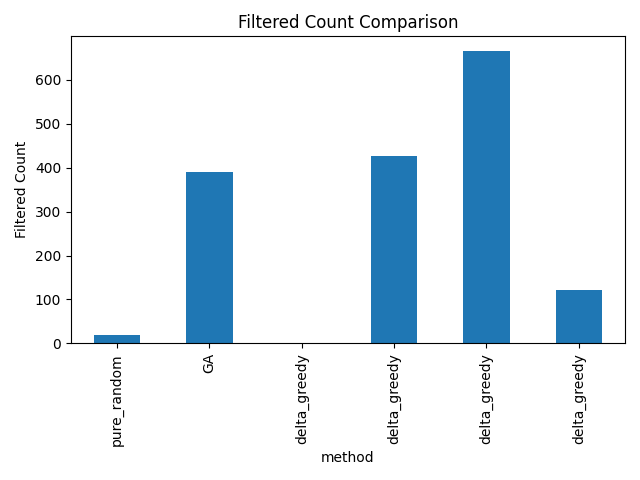
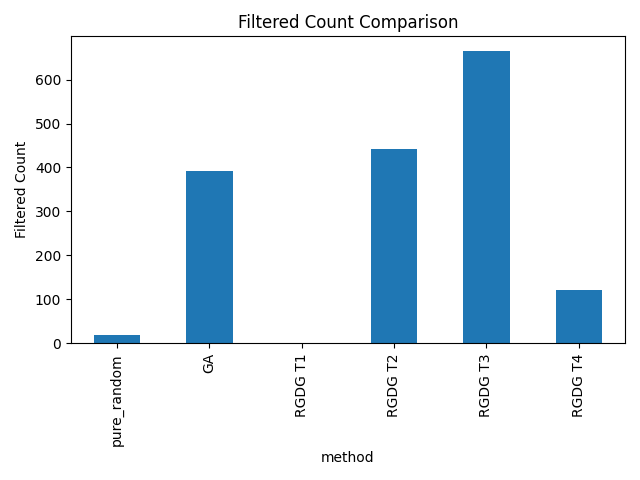
refector after merge

diff --git a/main.py b/main.py
@@ -119,23 +119,21 @@ def main():
     print("min:", np.min(np_pure_random_skill_fitness_list))
     print("Filtered count:", len(filtered_pure_random_skill_results))
     print("Unique archetypes in filtered results:", unique_archetypes)
-    
-    all_results.append({
-    "method": "pure_random",
-    "variance": pure_random_skill_variance,
-    "mean": np.mean(np_pure_random_skill_fitness_list),
-    "max": np.max(np_pure_random_skill_fitness_list),
-    "min": np.min(np_pure_random_skill_fitness_list),
-    "filtered_count": len(filtered_pure_random_skill_results),
-    })
+
+    all_results.append(
+        {
+            "method": "RDM",
+            "variance": pure_random_skill_variance,
+            "mean": np.mean(np_pure_random_skill_fitness_list),
+            "median": np.median(np_pure_random_skill_fitness_list),
+            "max": np.max(np_pure_random_skill_fitness_list),
+            "min": np.min(np_pure_random_skill_fitness_list),
+            "filtered_count": len(filtered_pure_random_skill_results),
+        }
+    )
 
     # fitness is negtive log (-fitness)
     log_pure_random_fitness = np.log10(-np_pure_random_skill_fitness_list + 1)
-
-    # plt.boxplot(log_pure_random_fitness, tick_labels=["Pure-random"])
-    # plt.title("Log-scaled Loss Pure Random")
-    # plt.ylabel("Log-scaled Loss")
-    # plt.show()
 
     plt.hist(log_pure_random_fitness, bins=50)
     plt.title("Log-scaled Loss Pure Random")
@@ -149,15 +147,6 @@ def main():
     )
     plt.legend()
     plt.show()
-    
-    # all_results.append({
-    # "method": "rule_based",
-    # "variance": best_rule_based_skill_variance,
-    # "mean": np.mean(np_best_rule_based_skill_fitness_list),
-    # "max": np.max(np_best_rule_based_skill_fitness_list),
-    # "min": np.min(np_best_rule_based_skill_fitness_list),
-    # "filtered_count": len(filtered_best_rule_based_skill_results),
-    # })
 
     # GA skill generation and evaluation
     ga_generated_skill_list_with_fitness = []
@@ -207,17 +196,13 @@ def main():
 
     print("GA variance:", ga_skill_variance)
     print("GA mean:", np.mean(ga_generated_skill_fitness_list))
+
     print("GA max:", np.max(ga_generated_skill_fitness_list))
     print("GA min:", np.min(ga_generated_skill_fitness_list))
     print("GA Filtered count:", len(filtered_ga_skill_results))
     print("GA Unique archetypes in filtered results:", unique_archetypes)
 
     log_ga_fitness = np.log10(-np_ga_fitness + 1)
-
-    # plt.boxplot(log_ga_fitness, tick_labels=["GA"])
-    # plt.title("Log-scaled Loss GA")
-    # plt.ylabel("Log-scaled Loss")
-    # plt.show()
 
     plt.hist(log_ga_fitness, bins=50)
     plt.title("Log-scaled Loss GA")
@@ -231,15 +216,18 @@ def main():
     )
     plt.legend()
     plt.show()
-    
-    all_results.append({
-    "method": "GA",
-    "variance": ga_skill_variance,
-    "mean": np.mean(ga_generated_skill_fitness_list),
-    "max": np.max(ga_generated_skill_fitness_list),
-    "min": np.min(ga_generated_skill_fitness_list),
-    "filtered_count": len(filtered_ga_skill_results),
-    })
+
+    all_results.append(
+        {
+            "method": "GA",
+            "variance": ga_skill_variance,
+            "mean": np.mean(ga_generated_skill_fitness_list),
+            "median": np.median(ga_generated_skill_fitness_list),
+            "max": np.max(ga_generated_skill_fitness_list),
+            "min": np.min(ga_generated_skill_fitness_list),
+            "filtered_count": len(filtered_ga_skill_results),
+        }
+    )
 
     # proxy strong rule based skill generation and evaluation
     c = 0.75
@@ -304,37 +292,25 @@ def main():
         print(
             f"Rule-Guided Delta Greedy (c={c}) tier={fold} Unique archetypes in filtered results: {unique_archetypes}"
         )
-    
+
         unique_archetypes = len(
             set(s.archetype_id for _, s in filtered_delta_greedy_skills)
         )
-        print(f"Delta-Greedy (c={c}) variance: {delta_greedy_skill_variance}")
-        print(f"Delta-Greedy (c={c}) mean: {np.mean(delta_greedy_skill_fitness_list)}")
-        print(f"Delta-Greedy (c={c}) max: {np.max(delta_greedy_skill_fitness_list)}")
-        print(f"Delta-Greedy (c={c}) min: {np.min(delta_greedy_skill_fitness_list)}")
-        print(
-            f"Delta-Greedy (c={c}) Filtered count: {len(filtered_delta_greedy_skills)}"
+
+        all_results.append(
+            {
+                "method": f"RGDG T{fold}",
+                "variance": delta_greedy_skill_variance,
+                "mean": np.mean(delta_greedy_skill_fitness_list),
+                "median": np.median(delta_greedy_skill_fitness_list),
+                "max": np.max(delta_greedy_skill_fitness_list),
+                "min": np.min(delta_greedy_skill_fitness_list),
+                "filtered_count": len(filtered_delta_greedy_skills),
+            }
         )
-        print(
-            f"Delta-Greedy (c={c}) Unique archetypes in filtered results: {unique_archetypes}"
-        )
-        
-        all_results.append({
-            "method": "delta_greedy",
-            "variance": delta_greedy_skill_variance,
-            "mean": np.mean(delta_greedy_skill_fitness_list),
-            "max": np.max(delta_greedy_skill_fitness_list),
-            "min": np.min(delta_greedy_skill_fitness_list),
-            "filtered_count": len(filtered_delta_greedy_skills),
-        })
 
         log_delta_greedy = np.log10(-np_delta_greedy_skill_fitness_list + 1)
         log_delta_greedy_all_tiers_fitness_list.append(log_delta_greedy)
-
-        # plt.boxplot(log_delta_greedy, tick_labels=["delta_greedy"])
-        # plt.title("Log-scaled Loss Delta-Greedy")
-        # plt.ylabel("Log-scaled Loss")
-        # plt.show()
 
         plt.hist(log_delta_greedy, bins=50)
         plt.title(f"Log-scaled Loss Rule-Guided Delta Greedy Tier {fold}")
@@ -375,8 +351,8 @@ def main():
 
     end_time = time.perf_counter()
     print(f"Total time: {end_time - start_time:.6f} seconds")
-    
-        # ========= SAVE CSV =========
+
+    # ========= SAVE CSV =========
     df = pd.DataFrame(all_results)
     df.to_csv("results_summary.csv", index=False)
 
@@ -393,9 +369,8 @@ def main():
     plt.savefig("filtered_count.png")
     plt.show()
 
-    # Mean（重要）
+    # Mean
     df["mean_abs"] = df["mean"].abs()
-
     pivot = df.set_index("method")["mean_abs"]
 
     pivot.plot(kind="bar")
@@ -403,6 +378,17 @@ def main():
     plt.yscale("log")
     plt.tight_layout()
     plt.savefig("mean.png")
+    plt.show()
+
+    # Median
+    df["median_abs"] = df["median"].abs()
+    pivot = df.set_index("method")["median_abs"]
+
+    pivot.plot(kind="bar")
+    plt.title("Median (Closer to 0 is better)")
+    plt.yscale("log")
+    plt.tight_layout()
+    plt.savefig("median.png")
     plt.show()
 
     # Variance
